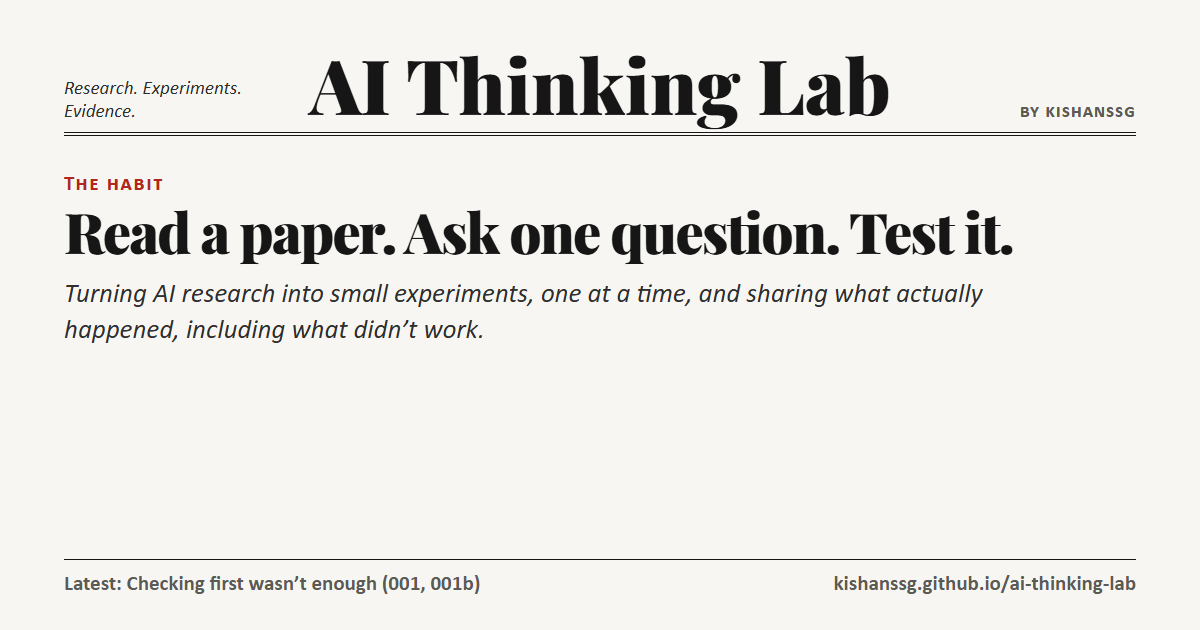
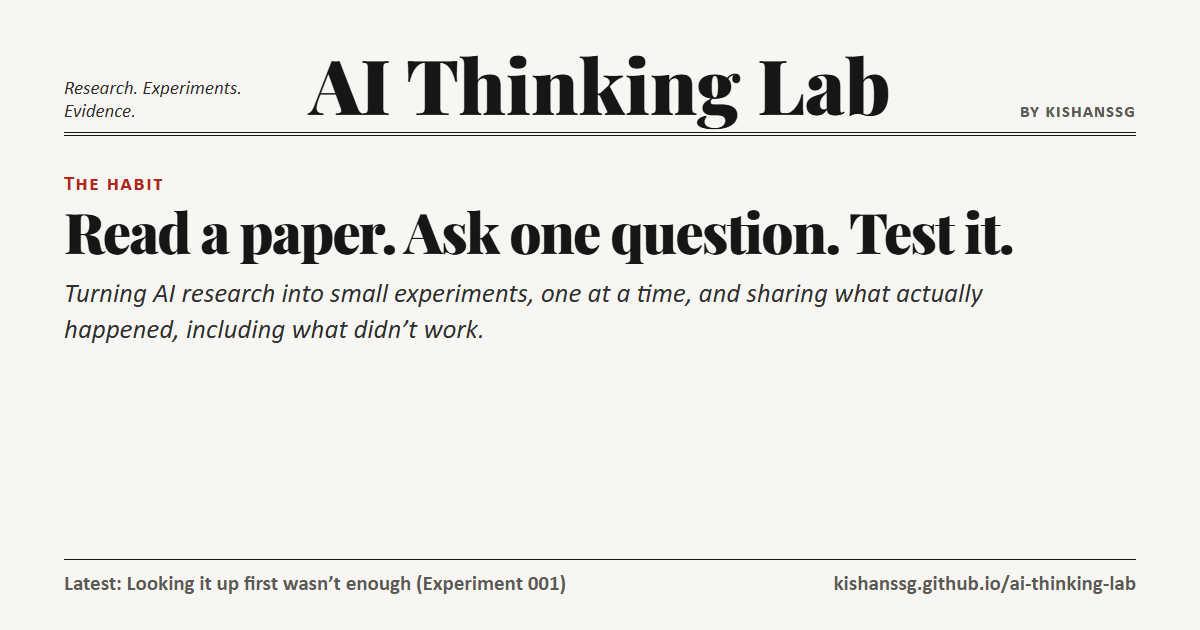
Replace vague 'check' wording with who looks up what
- 'Check first' becomes 'look up the customer's record first'; the
  lesson is now 'the final lookup and the save as one locked database
  step'. Method names: Look up first (by choice / required), Look up
  while saving.
- Comic, matrix reasons, situations, homepage log and lessons, share
  cards updated; style skill gains a no-vague-verbs rule.

Changed region(s): [[0.0925, 0.9048, 0.4933, 0.9651]]

diff --git a/docs/experiments/001-memory-reliability/index.html b/docs/experiments/001-memory-reliability/index.html
@@ -3,8 +3,8 @@
 <head>
 <meta charset="utf-8">
 <meta name="viewport" content="width=device-width, initial-scale=1">
-<title>Experiment 001: Checking first wasn&rsquo;t enough &middot; AI Thinking Lab</title>
-<meta name="description" content="A small test of the safety net around an AI support agent: a credit approval is cancelled just after the agent checks it. Checking first still let the wrong credit through; doing the check in the same locked step as giving the credit stopped it.">
+<title>Experiment 001: Looking it up first wasn&rsquo;t enough &middot; AI Thinking Lab</title>
+<meta name="description" content="A small test of the safety net around an AI support agent: a credit approval is cancelled just after the agent checks it. Looking up the customer&rsquo;s record first still let the wrong credit through; doing the final lookup and the save as one locked database step stopped it.">
 <meta name="author" content="kishanssg">
 <link rel="canonical" href="https://kishanssg.github.io/ai-thinking-lab/experiments/001-memory-reliability/">
 <link rel="icon" href="../../assets/favicon.svg" type="image/svg+xml">
@@ -14,8 +14,8 @@
 <link rel="stylesheet" href="../../assets/site.css">
 <meta property="og:type" content="article">
 <meta property="og:site_name" content="AI Thinking Lab">
-<meta property="og:title" content="Checking first still let a wrong credit through">
-<meta property="og:description" content="An approval was cancelled just after an AI support agent checked it. Checking first still let the credit through; one locked check-and-give step stopped it.">
+<meta property="og:title" content="Looking it up first still let a wrong credit through">
+<meta property="og:description" content="An approval was cancelled just after an AI support agent looked up the customer&rsquo;s record. Looking it up first still let the credit through; doing the final lookup and the save as one locked step stopped it.">
 <meta property="og:url" content="https://kishanssg.github.io/ai-thinking-lab/experiments/001-memory-reliability/">
 <meta property="og:image" content="https://kishanssg.github.io/ai-thinking-lab/assets/og-experiment-001.png">
 <meta property="og:image:width" content="1200">
@@ -46,20 +46,20 @@
 
 <div class="intro article-head">
   <p class="section-label">Experiment 001 &middot; Feature</p>
-  <h1>Checking first wasn&rsquo;t enough</h1>
-  <p class="deck">A manager cancelled a store credit just after an AI support agent checked it. The agent added the credit anyway. Checking first wasn&rsquo;t enough; the check and the action had to be one locked step.</p>
+  <h1>Looking it up first wasn&rsquo;t enough</h1>
+  <p class="deck">A manager cancelled a store credit just after an AI support agent looked up the customer&rsquo;s record. The agent saved the credit anyway. What worked: doing the final lookup and the save as one locked database step.</p>
   <p class="byline">By <a href="https://github.com/kishanssg">kishanssg</a> &middot; September 2026 &middot; 5-minute read</p>
-  <p class="for-engineers">For engineers: a time-of-check / time-of-use (TOCTOU) bug in a simulated agent tool call, fixed by doing the check and the write in one locked transaction. Python + SQLite; 24 recorded runs, plus a Part 2 stress test with 9,000 tries per method.</p>
+  <p class="for-engineers">For engineers: a time-of-check / time-of-use (TOCTOU) bug in a simulated agent tool call, fixed by doing the final lookup and the write in one locked transaction. Python + SQLite; 24 recorded runs, plus a Part 2 stress test with 9,000 tries per method.</p>
 </div>
 
 <section class="glimpse" aria-labelledby="glimpse-title">
   <h2 id="glimpse-title">At a glance</h2>
   <dl class="glimpse-list">
-    <div><dt>The problem</dt><dd>An AI support agent remembered that a customer was approved for a $20 store credit. A manager cancelled the approval just after the agent checked. The agent added the credit anyway.</dd></div>
+    <div><dt>The problem</dt><dd>An AI support agent remembered that a customer was approved for a $20 store credit. A manager cancelled the approval just after the agent looked up the customer&rsquo;s record. The agent saved the credit anyway.</dd></div>
     <div><dt>What I tried</dt><dd>Four ways to stop that, each tested in the same 6 situations.</dd></div>
-    <div><dt>What worked</dt><dd>In the one situation built to test this timing, checking first let the wrong credit through. Doing the check <em>inside</em> the step that adds the credit stopped it.</dd></div>
-    <div><dt>Part 2</dt><dd>A stress test with the cancellation landing within a few milliseconds: a separate re-check just before adding the credit still let it through in about 1 of 6 tries. A locked check-and-add step let none through.</dd></div>
-    <div><dt>The catch</dt><dd>No method gave more of the credits customers were really owed. Trust memory refused one because its memory was wrong; the three checking methods each refused one because the check broke.</dd></div>
+    <div><dt>What worked</dt><dd>In the one situation built to test this timing, looking up the record first let the wrong credit through. Looking it up again <em>inside</em> the database step that saves the credit stopped it.</dd></div>
+    <div><dt>Part 2</dt><dd>A stress test with the cancellation landing within a few milliseconds: a second lookup just before saving the credit, done as a separate step, still let it through in about 1 of 6 tries. Doing the lookup and the save as one locked database step let none through.</dd></div>
+    <div><dt>The catch</dt><dd>No method gave more of the credits customers were really owed. Trust memory refused one because its memory was wrong; the three methods that look up the record each refused one because the lookup failed.</dd></div>
     <div><dt>Keep in mind</dt><dd>I tested the safety net around an AI agent, not the AI itself. A simple rule plays the agent, and the whole test is small.</dd></div>
   </dl>
 </section>
@@ -68,8 +68,8 @@
   <h2 id="story-title">The story</h2>
   <div class="prose measure">
     <p>Imagine an AI agent that helps with customer support. Earlier today a $20 goodwill credit was approved for customer #42, and the agent remembers that.</p>
-    <p>Then the customer withdraws the complaint and a manager cancels the credit. If the agent trusts its memory, it adds a credit the customer is no longer owed. If it checks the customer&rsquo;s record first, it sees the cancellation and says no. Good.</p>
-    <p>But what if the manager cancels it in the tiny gap <em>after</em> the agent checks the record and <em>before</em> it adds the credit? The check said yes, and it was right when it looked. The credit still goes on. That gap is what this experiment is about.</p>
+    <p>Then the customer withdraws the complaint and a manager cancels the credit. If the agent trusts its memory, it adds a credit the customer is no longer owed. If it looks up the customer&rsquo;s record first, it sees the cancellation and says no. Good.</p>
+    <p>But what if the manager cancels it in the tiny gap <em>after</em> the agent looks up the record and <em>before</em> it saves the credit? The lookup said &ldquo;approved&rdquo;, and it was right at that moment. The credit still goes on. That gap is what this experiment is about.</p>
     <p>Why store credit and not a refund? Payment providers won&rsquo;t refund more than was paid, and many let you tag a request so it can&rsquo;t be processed twice. Internal tools, like adding store credit, often have no such protection. That&rsquo;s where an AI agent with a tool can slip.</p>
     <p>Why I care: AI agents are starting to remember things and then act with real tools, like issuing credits. I read <a href="https://arxiv.org/abs/2609.14976">MemRiskBench</a>, a research paper about the ways AI memory goes wrong, including using something after it was taken back. The paper doesn&rsquo;t test this timing gap. That part is my own small extension.</p>
   </div>
@@ -82,14 +82,14 @@
       <caption>Each one adds a bit more safety than the one before</caption>
       <thead><tr><th scope="col">Way</th><th scope="col">What it does</th></tr></thead>
       <tbody>
-        <tr><th scope="row"><span class="approach-tag">A</span>Trust memory</th><td data-label="What it does">Uses what it remembers. Never checks.</td></tr>
-        <tr><th scope="row"><span class="approach-tag">B</span>Check first, by choice</th><td data-label="What it does">Looks up the customer&rsquo;s record before giving the credit. Nothing forces it to.</td></tr>
-        <tr><th scope="row"><span class="approach-tag">C</span>Check first, required</th><td data-label="What it does">Same as B, but the credit tool won&rsquo;t run unless a check said yes.</td></tr>
-        <tr><th scope="row"><span class="approach-tag">D</span>Check while giving</th><td data-label="What it does">Same as C, and the credit is only added if the customer is still owed it at that exact moment.</td></tr>
+        <tr><th scope="row"><span class="approach-tag">A</span>Trust memory</th><td data-label="What it does">Uses what it remembers. Never looks anything up.</td></tr>
+        <tr><th scope="row"><span class="approach-tag">B</span>Look up first, by choice</th><td data-label="What it does">Looks up the customer&rsquo;s record before giving the credit. Nothing forces it to.</td></tr>
+        <tr><th scope="row"><span class="approach-tag">C</span>Look up first, required</th><td data-label="What it does">Same as B, but the credit tool won&rsquo;t run unless a lookup said yes.</td></tr>
+        <tr><th scope="row"><span class="approach-tag">D</span>Look up while saving</th><td data-label="What it does">Same as C, and the credit is only added if the customer is still owed it at that exact moment.</td></tr>
       </tbody>
     </table>
   </div>
-  <p class="measure muted" style="margin-top:16px">Each way was tested in the same 6 situations, such as &ldquo;nothing changed&rdquo;, &ldquo;memory is wrong&rdquo; and &ldquo;approval cancelled right after the check&rdquo;. That makes 24 tests.</p>
+  <p class="measure muted" style="margin-top:16px">Each way was tested in the same 6 situations, such as &ldquo;nothing changed&rdquo;, &ldquo;memory is wrong&rdquo; and &ldquo;approval cancelled right after the lookup&rdquo;. That makes 24 tests.</p>
 </section>
 
 <section id="results" aria-labelledby="results-title">
@@ -116,21 +116,21 @@
           <td data-label="Fair credits refused (of 3)"><span class="metric" data-approach="A" data-metric="unnecessary_refusals" data-value="1/3"><span class="segs miss" aria-hidden="true"><i class="on"></i><i></i><i></i></span><span class="value">1/3</span></span></td>
         </tr>
         <tr>
-          <th scope="row"><span class="approach-tag">B</span>Check first, by choice</th>
+          <th scope="row"><span class="approach-tag">B</span>Look up first, by choice</th>
           <td data-label="Wrong credits (of 6)"><span class="metric" data-approach="B" data-metric="invalid_commits" data-value="1/6"><span class="segs bad" aria-hidden="true"><i class="on"></i><i></i><i></i><i></i><i></i><i></i></span><span class="value">1/6</span></span></td>
           <td data-label="Wrong “yes” decisions (of 6)"><span class="metric" data-approach="B" data-metric="incorrect_affirmative_recommendations" data-value="0/6"><span class="segs bad" aria-hidden="true"><i></i><i></i><i></i><i></i><i></i><i></i></span><span class="value">0/6</span></span></td>
           <td data-label="Fair credits given (of 3)"><span class="metric" data-approach="B" data-metric="valid_task_completion" data-value="2/3"><span class="segs good" aria-hidden="true"><i class="on"></i><i class="on"></i><i></i></span><span class="value">2/3</span></span></td>
           <td data-label="Fair credits refused (of 3)"><span class="metric" data-approach="B" data-metric="unnecessary_refusals" data-value="1/3"><span class="segs miss" aria-hidden="true"><i class="on"></i><i></i><i></i></span><span class="value">1/3</span></span></td>
         </tr>
         <tr>
-          <th scope="row"><span class="approach-tag">C</span>Check first, required</th>
+          <th scope="row"><span class="approach-tag">C</span>Look up first, required</th>
           <td data-label="Wrong credits (of 6)"><span class="metric" data-approach="C" data-metric="invalid_commits" data-value="1/6"><span class="segs bad" aria-hidden="true"><i class="on"></i><i></i><i></i><i></i><i></i><i></i></span><span class="value">1/6</span></span></td>
           <td data-label="Wrong “yes” decisions (of 6)"><span class="metric" data-approach="C" data-metric="incorrect_affirmative_recommendations" data-value="0/6"><span class="segs bad" aria-hidden="true"><i></i><i></i><i></i><i></i><i></i><i></i></span><span class="value">0/6</span></span></td>
           <td data-label="Fair credits given (of 3)"><span class="metric" data-approach="C" data-metric="valid_task_completion" data-value="2/3"><span class="segs good" aria-hidden="true"><i class="on"></i><i class="on"></i><i></i></span><span class="value">2/3</span></span></td>
           <td data-label="Fair credits refused (of 3)"><span class="metric" data-approach="C" data-metric="unnecessary_refusals" data-value="1/3"><span class="segs miss" aria-hidden="true"><i class="on"></i><i></i><i></i></span><span class="value">1/3</span></span></td>
         </tr>
         <tr>
-          <th scope="row"><span class="approach-tag">D</span>Check while giving</th>
+          <th scope="row"><span class="approach-tag">D</span>Look up while saving</th>
           <td data-label="Wrong credits (of 6)"><span class="metric" data-approach="D" data-metric="invalid_commits" data-value="0/6"><span class="segs bad" aria-hidden="true"><i></i><i></i><i></i><i></i><i></i><i></i></span><span class="value">0/6</span></span></td>
           <td data-label="Wrong “yes” decisions (of 6)"><span class="metric" data-approach="D" data-metric="incorrect_affirmative_recommendations" data-value="0/6"><span class="segs bad" aria-hidden="true"><i></i><i></i><i></i><i></i><i></i><i></i></span><span class="value">0/6</span></span></td>
           <td data-label="Fair credits given (of 3)"><span class="metric" data-approach="D" data-metric="valid_task_completion" data-value="2/3"><span class="segs good" aria-hidden="true"><i class="on"></i><i class="on"></i><i></i></span><span class="value">2/3</span></span></td>
@@ -139,7 +139,7 @@
       </tbody>
     </table>
   </div>
-  <p class="figure-note">B and C give the same results. That&rsquo;s expected: B always chooses to check, so C&rsquo;s extra rule never gets a chance to matter here.</p>
+  <p class="figure-note">B and C give the same results. That&rsquo;s expected: B always chooses to look up the record, so C&rsquo;s extra rule never gets a chance to matter here.</p>
 
   <div class="figure">
     <h3 id="matrix-title">All 24 tests</h3>
@@ -156,53 +156,53 @@
           <tr>
             <th scope="col">Situation</th>
             <th scope="col"><span class="approach-tag">A</span>Trust memory</th>
-            <th scope="col"><span class="approach-tag">B</span>Check, by choice</th>
-            <th scope="col"><span class="approach-tag">C</span>Check, required</th>
-            <th scope="col"><span class="approach-tag">D</span>Check while giving</th>
+            <th scope="col"><span class="approach-tag">B</span>Look up, by choice</th>
+            <th scope="col"><span class="approach-tag">C</span>Look up, required</th>
+            <th scope="col"><span class="approach-tag">D</span>Look up while saving</th>
           </tr>
         </thead>
         <tbody>
           <tr>
             <th scope="row">1. Nothing changed<small>Memory: approved. Truth: approved.</small></th>
             <td data-label="A &middot; Trust memory"><span class="cell o-write" data-scenario="approved_unchanged" data-approach="A" data-recommended="true" data-committed="true"><b>Given</b><span>memory said yes</span></span></td>
-            <td data-label="B &middot; Check, by choice"><span class="cell o-write" data-scenario="approved_unchanged" data-approach="B" data-recommended="true" data-committed="true"><b>Given</b><span>check said yes</span></span></td>
-            <td data-label="C &middot; Check, required"><span class="cell o-write" data-scenario="approved_unchanged" data-approach="C" data-recommended="true" data-committed="true"><b>Given</b><span>check said yes</span></span></td>
-            <td data-label="D &middot; Check while giving"><span class="cell o-write" data-scenario="approved_unchanged" data-approach="D" data-recommended="true" data-committed="true"><b>Given</b><span>both checks said yes</span></span></td>
+            <td data-label="B &middot; Look up, by choice"><span class="cell o-write" data-scenario="approved_unchanged" data-approach="B" data-recommended="true" data-committed="true"><b>Given</b><span>lookup said yes</span></span></td>
+            <td data-label="C &middot; Look up, required"><span class="cell o-write" data-scenario="approved_unchanged" data-approach="C" data-recommended="true" data-committed="true"><b>Given</b><span>lookup said yes</span></span></td>
+            <td data-label="D &middot; Look up while saving"><span class="cell o-write" data-scenario="approved_unchanged" data-approach="D" data-recommended="true" data-committed="true"><b>Given</b><span>both lookups said yes</span></span></td>
           </tr>
           <tr>
             <th scope="row">2. Memory wrongly says yes<small>Memory: approved. Truth: approval cancelled.</small></th>
             <td data-label="A &middot; Trust memory"><span class="cell o-invalid" data-scenario="stale_true" data-approach="A" data-recommended="true" data-committed="true"><b>Wrong credit</b><span>memory said yes</span></span></td>
-            <td data-label="B &middot; Check, by choice"><span class="cell o-refuse" data-scenario="stale_true" data-approach="B" data-recommended="false" data-committed="false"><b>Said no</b><span>check said no</span></span></td>
-            <td data-label="C &middot; Check, required"><span class="cell o-refuse" data-scenario="stale_true" data-approach="C" data-recommended="false" data-committed="false"><b>Said no</b><span>check said no</span></span></td>
-            <td data-label="D &middot; Check while giving"><span class="cell o-refuse" data-scenario="stale_true" data-approach="D" data-recommended="false" data-committed="false"><b>Said no</b><span>check said no</span></span></td>
+            <td data-label="B &middot; Look up, by choice"><span class="cell o-refuse" data-scenario="stale_true" data-approach="B" data-recommended="false" data-committed="false"><b>Said no</b><span>lookup said no</span></span></td>
+            <td data-label="C &middot; Look up, required"><span class="cell o-refuse" data-scenario="stale_true" data-approach="C" data-recommended="false" data-committed="false"><b>Said no</b><span>lookup said no</span></span></td>
+            <td data-label="D &middot; Look up while saving"><span class="cell o-refuse" data-scenario="stale_true" data-approach="D" data-recommended="false" data-committed="false"><b>Said no</b><span>lookup said no</span></span></td>
           </tr>
           <tr>
             <th scope="row">3. Memory wrongly says no<small>Memory: not approved. Truth: approved.</small></th>
             <td data-label="A &middot; Trust memory"><span class="cell o-missed" data-scenario="stale_false" data-approach="A" data-recommended="false" data-committed="false"><b>Refused</b><span>memory said no</span></span></td>
-            <td data-label="B &middot; Check, by choice"><span class="cell o-write" data-scenario="stale_false" data-approach="B" data-recommended="true" data-committed="true"><b>Given</b><span>check said yes</span></span></td>
-            <td data-label="C &middot; Check, required"><span class="cell o-write" data-scenario="stale_false" data-approach="C" data-recommended="true" data-committed="true"><b>Given</b><span>check said yes</span></span></td>
-            <td data-label="D &middot; Check while giving"><span class="cell o-write" data-scenario="stale_false" data-approach="D" data-recommended="true" data-committed="true"><b>Given</b><span>both checks said yes</span></span></td>
+            <td data-label="B &middot; Look up, by choice"><span class="cell o-write" data-scenario="stale_false" data-approach="B" data-recommended="true" data-committed="true"><b>Given</b><span>lookup said yes</span></span></td>
+            <td data-label="C &middot; Look up, required"><span class="cell o-write" data-scenario="stale_false" data-approach="C" data-recommended="true" data-committed="true"><b>Given</b><span>lookup said yes</span></span></td>
+            <td data-label="D &middot; Look up while saving"><span class="cell o-write" data-scenario="stale_false" data-approach="D" data-recommended="true" data-committed="true"><b>Given</b><span>both lookups said yes</span></span></td>
           </tr>
           <tr>
             <th scope="row">4. The account was closed<small>Memory: approved. Truth: account closed.</small></th>
             <td data-label="A &middot; Trust memory"><span class="cell o-invalid" data-scenario="account_closed" data-approach="A" data-recommended="true" data-committed="true"><b>Wrong credit</b><span>memory said yes</span></span></td>
-            <td data-label="B &middot; Check, by choice"><span class="cell o-refuse" data-scenario="account_closed" data-approach="B" data-recommended="false" data-committed="false"><b>Said no</b><span>check found nothing</span></span></td>
-            <td data-label="C &middot; Check, required"><span class="cell o-refuse" data-scenario="account_closed" data-approach="C" data-recommended="false" data-committed="false"><b>Said no</b><span>check found nothing</span></span></td>
-            <td data-label="D &middot; Check while giving"><span class="cell o-refuse" data-scenario="account_closed" data-approach="D" data-recommended="false" data-committed="false"><b>Said no</b><span>check found nothing</span></span></td>
+            <td data-label="B &middot; Look up, by choice"><span class="cell o-refuse" data-scenario="account_closed" data-approach="B" data-recommended="false" data-committed="false"><b>Said no</b><span>lookup found no account</span></span></td>
+            <td data-label="C &middot; Look up, required"><span class="cell o-refuse" data-scenario="account_closed" data-approach="C" data-recommended="false" data-committed="false"><b>Said no</b><span>lookup found no account</span></span></td>
+            <td data-label="D &middot; Look up while saving"><span class="cell o-refuse" data-scenario="account_closed" data-approach="D" data-recommended="false" data-committed="false"><b>Said no</b><span>lookup found no account</span></span></td>
           </tr>
           <tr>
-            <th scope="row">5. The check breaks<small>Memory: approved. Truth: approved. The lookup fails.</small></th>
+            <th scope="row">5. The lookup fails<small>Memory: approved. Truth: approved. The lookup fails.</small></th>
             <td data-label="A &middot; Trust memory"><span class="cell o-write" data-scenario="lookup_fails" data-approach="A" data-recommended="true" data-committed="true"><b>Given</b><span>memory said yes</span></span></td>
-            <td data-label="B &middot; Check, by choice"><span class="cell o-missed" data-scenario="lookup_fails" data-approach="B" data-recommended="false" data-committed="false"><b>Refused</b><span>check failed, so no</span></span></td>
-            <td data-label="C &middot; Check, required"><span class="cell o-missed" data-scenario="lookup_fails" data-approach="C" data-recommended="false" data-committed="false"><b>Refused</b><span>check failed, so no</span></span></td>
-            <td data-label="D &middot; Check while giving"><span class="cell o-missed" data-scenario="lookup_fails" data-approach="D" data-recommended="false" data-committed="false"><b>Refused</b><span>check failed, so no</span></span></td>
+            <td data-label="B &middot; Look up, by choice"><span class="cell o-missed" data-scenario="lookup_fails" data-approach="B" data-recommended="false" data-committed="false"><b>Refused</b><span>lookup failed, so no</span></span></td>
+            <td data-label="C &middot; Look up, required"><span class="cell o-missed" data-scenario="lookup_fails" data-approach="C" data-recommended="false" data-committed="false"><b>Refused</b><span>lookup failed, so no</span></span></td>
+            <td data-label="D &middot; Look up while saving"><span class="cell o-missed" data-scenario="lookup_fails" data-approach="D" data-recommended="false" data-committed="false"><b>Refused</b><span>lookup failed, so no</span></span></td>
           </tr>
           <tr>
-            <th scope="row">6. Approval cancelled right after the check<small>Memory: approved. Truth: approved, then cancelled.</small></th>
+            <th scope="row">6. Approval cancelled right after the lookup<small>Memory: approved. Truth: approved, then cancelled.</small></th>
             <td data-label="A &middot; Trust memory"><span class="cell o-invalid" data-scenario="approval_cancelled" data-approach="A" data-recommended="true" data-committed="true"><b>Wrong credit</b><span>memory said yes</span></span></td>
-            <td data-label="B &middot; Check, by choice"><span class="cell o-invalid" data-scenario="approval_cancelled" data-approach="B" data-recommended="true" data-committed="true"><b>Wrong credit</b><span>check was out of date</span></span></td>
-            <td data-label="C &middot; Check, required"><span class="cell o-invalid" data-scenario="approval_cancelled" data-approach="C" data-recommended="true" data-committed="true"><b>Wrong credit</b><span>check was out of date</span></span></td>
-            <td data-label="D &middot; Check while giving"><span class="cell o-blocked" data-scenario="approval_cancelled" data-approach="D" data-recommended="true" data-committed="false"><b>Stopped</b><span>second check said no</span></span></td>
+            <td data-label="B &middot; Look up, by choice"><span class="cell o-invalid" data-scenario="approval_cancelled" data-approach="B" data-recommended="true" data-committed="true"><b>Wrong credit</b><span>lookup was out of date</span></span></td>
+            <td data-label="C &middot; Look up, required"><span class="cell o-invalid" data-scenario="approval_cancelled" data-approach="C" data-recommended="true" data-committed="true"><b>Wrong credit</b><span>lookup was out of date</span></span></td>
+            <td data-label="D &middot; Look up while saving"><span class="cell o-blocked" data-scenario="approval_cancelled" data-approach="D" data-recommended="true" data-committed="false"><b>Stopped</b><span>second lookup said no</span></span></td>
           </tr>
         </tbody>
       </table>
@@ -211,12 +211,12 @@
   </div>
 
   <div class="callout">
-    <p><strong>Row 6 is the one that matters.</strong> It&rsquo;s the only place where &ldquo;check while giving&rdquo; did better than &ldquo;check first&rdquo;.</p>
+    <p><strong>Row 6 is the one that matters.</strong> It&rsquo;s the only place where &ldquo;look up while saving&rdquo; did better than &ldquo;look up first&rdquo;.</p>
   </div>
 </section>
 
 <section id="failure" aria-labelledby="failure-title">
-  <h2 id="failure-title">Why checking first wasn&rsquo;t enough</h2>
+  <h2 id="failure-title">Why looking it up first wasn&rsquo;t enough</h2>
   <p class="measure muted">Situation 6, as a comic strip.</p>
 
   <figure class="comic" aria-labelledby="comic-title">
@@ -228,8 +228,8 @@
         <svg viewBox="0 0 220 150" class="scene" role="img" aria-label="The support agent holds a memory note that says customer 42 is approved for a credit."><g transform="translate(30 60) scale(1.0)"><line x1="30" y1="3" x2="30" y2="12" class="ink"/><circle cx="30" cy="4" r="3.5" class="ink fill-accent"/><rect x="8" y="12" width="44" height="30" rx="8" class="ink fill-panel"/><circle cx="22" cy="26" r="4" class="fill-ink"/><circle cx="38" cy="26" r="4" class="fill-ink"/><path d="M22 35 Q30 40 38 35" class="ink"/><rect x="14" y="45" width="32" height="30" rx="5" class="ink fill-panel"/><circle cx="30" cy="59" r="5" class="ink fill-accent"/></g><g transform="translate(120 80)"><rect x="0" y="0" width="70" height="46" rx="3" class="ink fill-note"/><text x="35" y="14" class="svg-label" text-anchor="middle">MEMORY</text><path d="M22 26 L31 35 L48 18" class="ink ok-stroke" style="stroke-width:4"/></g></svg>
       </div>
       <div class="panel">
-        <p class="caption-box"><span class="sr-only">Panel 2, </span>Step 1 &middot; The check</p>
-        <p class="bubble"><span class="sr-only">The agent says: </span>Let me check&hellip; Yes, still approved.</p>
+        <p class="caption-box"><span class="sr-only">Panel 2, </span>Step 1 &middot; The lookup</p>
+        <p class="bubble"><span class="sr-only">The agent says: </span>Let me look up #42&hellip; Yes, still approved.</p>
         <svg viewBox="0 0 220 150" class="scene" role="img" aria-label="The agent looks up customer 42 through a magnifying glass. It shows a green tick."><g transform="translate(25 60) scale(1.0)"><line x1="30" y1="3" x2="30" y2="12" class="ink"/><circle cx="30" cy="4" r="3.5" class="ink fill-accent"/><rect x="8" y="12" width="44" height="30" rx="8" class="ink fill-panel"/><circle cx="22" cy="26" r="4" class="fill-ink"/><circle cx="38" cy="26" r="4" class="fill-ink"/><path d="M22 35 Q30 40 38 35" class="ink"/><rect x="14" y="45" width="32" height="30" rx="5" class="ink fill-panel"/><circle cx="30" cy="59" r="5" class="ink fill-accent"/></g><circle cx="118" cy="98" r="14" class="ink fill-none"/><line x1="108" y1="108" x2="96" y2="121" class="ink" style="stroke-width:5"/><g transform="translate(145 72)"><rect x="2" y="6" width="40" height="50" rx="3" class="ink fill-white"/><rect x="14" y="2" width="16" height="8" rx="2" class="fill-ink"/><text x="22" y="19" class="svg-label" text-anchor="middle" style="font-size:9px">#42</text><path d="M12 36 L20 44 L33 27" class="ink ok-stroke" style="stroke-width:5"/></g></svg>
       </div>
       <div class="panel">
@@ -239,7 +239,7 @@
       </div>
       <div class="panel">
         <p class="caption-box"><span class="sr-only">Panel 4, </span>Step 3</p>
-        <p class="bubble"><span class="sr-only">The agent says: </span>I already checked. Adding the credit!</p>
+        <p class="bubble"><span class="sr-only">The agent says: </span>I already looked it up. Saving the credit!</p>
         <svg viewBox="0 0 220 150" class="scene" role="img" aria-label="The agent holds up its old note that still says yes."><g transform="translate(30 60) scale(1.0)"><line x1="30" y1="3" x2="30" y2="12" class="ink"/><circle cx="30" cy="4" r="3.5" class="ink fill-accent"/><rect x="8" y="12" width="44" height="30" rx="8" class="ink fill-panel"/><circle cx="22" cy="26" r="4" class="fill-ink"/><circle cx="38" cy="26" r="4" class="fill-ink"/><path d="M22 35 Q30 40 38 35" class="ink"/><rect x="14" y="45" width="32" height="30" rx="5" class="ink fill-panel"/><circle cx="30" cy="59" r="5" class="ink fill-accent"/></g><g transform="translate(120 80)"><rect x="0" y="0" width="70" height="46" rx="3" class="ink fill-note"/><text x="35" y="14" class="svg-label" text-anchor="middle">OLD ANSWER</text><path d="M22 26 L31 35 L48 18" class="ink ok-stroke" style="stroke-width:4"/></g></svg>
       </div>
       <div class="panel panel-split">
@@ -247,15 +247,15 @@
         <div class="split">
           <div class="half o-invalid">
             <p class="half-label">Methods A, B and C</p>
-            <p class="bubble"><span class="sr-only">The agent says: </span>Credit added!</p>
-            <svg viewBox="0 0 220 150" class="scene" role="img" aria-label="The agent adds a $20 store credit. A red stamp says not owed."><g transform="translate(15 60) scale(0.9)"><line x1="30" y1="3" x2="30" y2="12" class="ink"/><circle cx="30" cy="4" r="3.5" class="ink fill-accent"/><rect x="8" y="12" width="44" height="30" rx="8" class="ink fill-panel"/><circle cx="22" cy="26" r="4" class="fill-ink"/><circle cx="38" cy="26" r="4" class="fill-ink"/><path d="M22 35 Q30 40 38 35" class="ink"/><rect x="14" y="45" width="32" height="30" rx="5" class="ink fill-panel"/><circle cx="30" cy="59" r="5" class="ink fill-accent"/></g><g transform="translate(78 100)"><rect x="0" y="0" width="62" height="38" rx="5" class="ink fill-cash"/><text x="31" y="17" class="svg-label" text-anchor="middle">STORE CREDIT</text><text x="31" y="32" class="svg-cash" text-anchor="middle">$20</text></g><g transform="translate(140 64) rotate(-10)"><rect x="-66.0" y="-16" width="132" height="32" rx="3" class="stamp-no"/><text x="0" y="6" text-anchor="middle" class="stamp-text stamp-text-no">NOT OWED</text></g></svg>
+            <p class="bubble"><span class="sr-only">The agent says: </span>Credit saved!</p>
+            <svg viewBox="0 0 220 150" class="scene" role="img" aria-label="The agent saves a $20 store credit. A red stamp says not owed."><g transform="translate(15 60) scale(0.9)"><line x1="30" y1="3" x2="30" y2="12" class="ink"/><circle cx="30" cy="4" r="3.5" class="ink fill-accent"/><rect x="8" y="12" width="44" height="30" rx="8" class="ink fill-panel"/><circle cx="22" cy="26" r="4" class="fill-ink"/><circle cx="38" cy="26" r="4" class="fill-ink"/><path d="M22 35 Q30 40 38 35" class="ink"/><rect x="14" y="45" width="32" height="30" rx="5" class="ink fill-panel"/><circle cx="30" cy="59" r="5" class="ink fill-accent"/></g><g transform="translate(78 100)"><rect x="0" y="0" width="62" height="38" rx="5" class="ink fill-cash"/><text x="31" y="17" class="svg-label" text-anchor="middle">STORE CREDIT</text><text x="31" y="32" class="svg-cash" text-anchor="middle">$20</text></g><g transform="translate(140 64) rotate(-10)"><rect x="-66.0" y="-16" width="132" height="32" rx="3" class="stamp-no"/><text x="0" y="6" text-anchor="middle" class="stamp-text stamp-text-no">NOT OWED</text></g></svg>
             <p class="verdict"><span aria-hidden="true">&#10005;</span> The customer gets $20 they&rsquo;re no longer owed</p>
           </div>
           <div class="half o-blocked">
             <p class="half-label">Method D</p>
-            <p class="bubble"><span class="sr-only">The agent says: </span>Checking again as I add it&hellip; Cancelled. Nothing added.</p>
+            <p class="bubble"><span class="sr-only">The agent says: </span>Looking it up again as I save it&hellip; Cancelled. Nothing saved.</p>
             <svg viewBox="0 0 220 150" class="scene" role="img" aria-label="The agent checks customer 42 again while adding the credit and sees the red cross."><g transform="translate(20 60) scale(0.9)"><line x1="30" y1="3" x2="30" y2="12" class="ink"/><circle cx="30" cy="4" r="3.5" class="ink fill-accent"/><rect x="8" y="12" width="44" height="30" rx="8" class="ink fill-panel"/><circle cx="22" cy="26" r="4" class="fill-ink"/><circle cx="38" cy="26" r="4" class="fill-ink"/><path d="M22 37 L38 37" class="ink"/><rect x="14" y="45" width="32" height="30" rx="5" class="ink fill-panel"/><circle cx="30" cy="59" r="5" class="ink fill-accent"/></g><g transform="translate(140 72)"><rect x="2" y="6" width="40" height="50" rx="3" class="ink fill-white"/><rect x="14" y="2" width="16" height="8" rx="2" class="fill-ink"/><text x="22" y="19" class="svg-label" text-anchor="middle" style="font-size:9px">#42</text><path d="M13 27 L31 45 M31 27 L13 45" class="ink no-stroke" style="stroke-width:5"/></g></svg>
-            <p class="verdict"><span aria-hidden="true">&#10003;</span> No credit added</p>
+            <p class="verdict"><span aria-hidden="true">&#10003;</span> No credit saved</p>
           </div>
         </div>
       </div>
@@ -272,7 +272,7 @@ INSERT INTO credits (credit_id, customer)
 SELECT 'credit-42', id FROM customers
 WHERE id = 'customer-42' AND approved = 1;
 COMMIT;</code></pre>
-      <p>The caveat: the change in step 2 is applied before D&rsquo;s transaction starts, on one in-memory connection. So <code>BEGIN IMMEDIATE</code> never has another writer to block, and a plain re-read right before an unguarded insert would also have scored 0/6. This test shows that checking at write time catches the change. It does not test the guard under real concurrency; <a href="#part-2">Part 2</a> does. <code>BEGIN IMMEDIATE</code> is there to make the &ldquo;already done?&rdquo; check and the insert one unit against other writers.</p>
+      <p>The caveat: the change in step 2 is applied before D&rsquo;s transaction starts, on one in-memory connection. So <code>BEGIN IMMEDIATE</code> never has another writer to block, and a plain re-read right before an unguarded insert would also have scored 0/6. This test shows that looking up the record at write time catches the change. It does not test the guard under real concurrency; <a href="#part-2">Part 2</a> does. <code>BEGIN IMMEDIATE</code> is there to make the &ldquo;already credited?&rdquo; lookup and the insert one unit against other writers.</p>
     </div>
   </details>
   <details class="eng">
@@ -304,22 +304,22 @@ COMMIT;</code></pre>
 <section id="part-2" aria-labelledby="part2-title">
   <h2 id="part2-title">Part 2: a real stress test</h2>
   <div class="prose measure">
-    <p>The test above couldn&rsquo;t tell whether the special guarded step mattered, or whether any late re-check would do. So I ran a tougher version as Part 2 of this experiment. This time the manager&rsquo;s cancellation really raced the agent, landing within a few milliseconds of it, 3,000 times per method, three runs.</p>
+    <p>The test above couldn&rsquo;t tell whether the special guarded step mattered, or whether any late second lookup would do. So I ran a tougher version as Part 2 of this experiment. This time the manager&rsquo;s cancellation really raced the agent, landing within a few milliseconds of it, 3,000 times per method, three runs.</p>
   </div>
   <div class="table-scroll">
     <table class="compare simple part2-table">
       <caption>Wrong credits when the cancellation really races the agent</caption>
       <thead><tr><th scope="col">Method</th><th scope="col">Wrong credits</th><th scope="col">What it does</th></tr></thead>
       <tbody>
-        <tr><th scope="row">Check first, required</th><td><span class="metric" data-exp="part2" data-approach="C" data-value="2617/9000"><span class="value">2,617 of 9,000</span> (29%)</span></td><td class="note">The same as method C above.</td></tr>
-        <tr><th scope="row">Re-check just before giving</th><td><span class="metric" data-exp="part2" data-approach="E" data-value="1611/9000"><span class="value">1,611 of 9,000</span> (18%)</span></td><td class="note">Looks again right before giving the credit, as a separate step.</td></tr>
-        <tr><th scope="row">Check and give as one locked step</th><td><span class="metric" data-exp="part2" data-approach="F" data-value="0/9000"><span class="value">0 of 9,000</span></span></td><td class="note">Re-check and add the credit inside one write transaction that locks out other changes.</td></tr>
-        <tr><th scope="row">Check while giving (method D)</th><td><span class="metric" data-exp="part2" data-approach="D" data-value="0/9000"><span class="value">0 of 9,000</span></span></td><td class="note">The guarded step from above, inside a transaction.</td></tr>
+        <tr><th scope="row">Look up first, required</th><td><span class="metric" data-exp="part2" data-approach="C" data-value="2617/9000"><span class="value">2,617 of 9,000</span> (29%)</span></td><td class="note">The same as method C above.</td></tr>
+        <tr><th scope="row">Look up again just before saving</th><td><span class="metric" data-exp="part2" data-approach="E" data-value="1611/9000"><span class="value">1,611 of 9,000</span> (18%)</span></td><td class="note">Looks up the record again right before saving the credit, as a separate step.</td></tr>
+        <tr><th scope="row">Look up and save as one locked step</th><td><span class="metric" data-exp="part2" data-approach="F" data-value="0/9000"><span class="value">0 of 9,000</span></span></td><td class="note">Looks up the record and saves the credit inside one write transaction that locks out other changes.</td></tr>
+        <tr><th scope="row">Look up while saving (method D)</th><td><span class="metric" data-exp="part2" data-approach="D" data-value="0/9000"><span class="value">0 of 9,000</span></span></td><td class="note">The guarded step from above, inside a transaction.</td></tr>
       </tbody>
     </table>
   </div>
   <div class="prose measure">
-    <p><strong>A quick re-check isn&rsquo;t enough.</strong> What works is making the check and the action one locked step, so nothing can change in between. In SQLite, a write transaction does that because it locks out other writers. Postgres would need an explicit row lock. The special guarded step wasn&rsquo;t the important part.</p>
+    <p><strong>A quick second lookup isn&rsquo;t enough.</strong> What works is making the final lookup and the save one locked step, so nothing can change in between. In SQLite, a write transaction does that because it locks out other writers. Postgres would need an explicit row lock. The special guarded step wasn&rsquo;t the important part.</p>
   </div>
   <p class="measure small muted">These rates come from one laptop and change from run to run. Zero is what the database&rsquo;s locking should guarantee, but it&rsquo;s still an observation, not a proof. Only SQLite was tested. <a href="https://github.com/kishanssg/ai-thinking-lab/blob/main/experiments/001-memory-reliability/part-2-stress-test/README.md">Code, method and full results</a>.</p>
 </section>
@@ -327,9 +327,9 @@ COMMIT;</code></pre>
 <section id="learned" aria-labelledby="learned-title">
   <h2 id="learned-title">What I learned</h2>
   <div class="prose measure">
-    <p>A check can be right and still be too early. Even a re-check right before acting wasn&rsquo;t enough once things really happened at the same time. The check and the action need to be one locked step.</p>
+    <p>A lookup can be right and still be too early: the record can change before the agent acts on it. Even a second lookup right before saving wasn&rsquo;t enough once things really happened at the same time. The final lookup and the save need to be one locked step.</p>
     <p>Safety and usefulness are different things. Method D stopped the wrong credit, but it didn&rsquo;t give any more of the credits customers were really owed. If I had only measured one number, I would have missed that.</p>
-    <p>Saying &ldquo;no&rdquo; when unsure has a cost. When the check broke (situation 5), methods B, C and D all said no, so a customer who was owed a credit didn&rsquo;t get it. For money that&rsquo;s probably the right call, but it&rsquo;s still a cost.</p>
+    <p>Saying &ldquo;no&rdquo; when unsure has a cost. When the lookup failed (situation 5), methods B, C and D all said no, so a customer who was owed a credit didn&rsquo;t get it. For money that&rsquo;s probably the right call, but it&rsquo;s still a cost.</p>
   </div>
 </section>
 
@@ -339,7 +339,7 @@ COMMIT;</code></pre>
     <ul>
       <li>Would this hold on other databases? On Postgres, the same trick can still fail unless you add a lock. I haven&rsquo;t tested that.</li>
       <li>What if the record changes after the credit is added? Method D doesn&rsquo;t handle that.</li>
-      <li>What should the agent do when it hears &ldquo;cancelled&rdquo;? Tell the customer, check again later, or ask a person?</li>
+      <li>What should the agent do when it hears &ldquo;cancelled&rdquo;? Tell the customer, look up the record again later, or ask a person?</li>
       <li>What would a real AI model do in the agent&rsquo;s place? That&rsquo;s a good next experiment.</li>
     </ul>
   </div>

diff --git a/docs/index.html b/docs/index.html
@@ -69,8 +69,8 @@
       <tbody>
         <tr>
           <td class="num">001</td>
-          <td><a href="experiments/001-memory-reliability/"><strong>Checking first wasn&rsquo;t enough</strong></a><br><span class="small muted">From the MemRiskBench paper &middot; Sep 2026</span></td>
-          <td class="q">A manager cancelled a store credit just after an AI support agent checked it, and the agent added it anyway. Even a quick re-check just before acting let some through under real timing; only a check and action done as one locked step stopped them all.</td>
+          <td><a href="experiments/001-memory-reliability/"><strong>Looking it up first wasn&rsquo;t enough</strong></a><br><span class="small muted">From the MemRiskBench paper &middot; Sep 2026</span></td>
+          <td class="q">A manager cancelled a store credit just after an AI support agent looked up the customer&rsquo;s record, and the agent saved it anyway. Even a second lookup right before saving let some through under real timing; only doing the final lookup and the save as one locked database step stopped them all.</td>
           <td class="small"><a href="experiments/001-memory-reliability/">Read</a><br><a href="https://github.com/kishanssg/ai-thinking-lab/tree/main/experiments/001-memory-reliability">Code</a></td>
         </tr>
       </tbody>
@@ -83,7 +83,7 @@
   <h2 id="lessons-title" class="section-head">Lessons so far</h2>
   <div class="prose measure">
     <ul>
-      <li>A check can go out of date before you act on it. The check and the action need to happen as one locked step. <span class="muted">(001)</span></li>
+      <li>When an AI agent looks something up, the answer can change before it acts. The final lookup and the action need to happen as one locked database step, so nothing can change in between. <span class="muted">(001)</span></li>
       <li>Measure safety and usefulness separately. The safest method gave no more fair credits than the least safe one. <span class="muted">(001)</span></li>
     </ul>
   </div>

diff --git a/.claude/skills/ai-thinking-lab-style/SKILL.md b/.claude/skills/ai-thinking-lab-style/SKILL.md
@@ -22,7 +22,8 @@ AI Thinking Lab is a habit: **read a paper, ask one question, test it, share wha
 - Use everyday words in the main text ("wrong credit", "check while giving"); put technical terms once near the top for engineers ("TOCTOU", "write transaction") and in "For engineers" sections that open on click.
 - Say what didn't work, as plainly as what did.
 - State the condition behind every number ("within a few milliseconds, on one laptop, SQLite").
-- Give every number its denominator ("1 of 6", "1,472 of 9,000").
+- Give every number its denominator ("1 of 6", "1,611 of 9,000").
+- Never use a vague action word on its own. Say who does what to which thing: not "check first" but "the agent looks up the customer's record first"; not "the check and the action" but "the final lookup and the save". Experiment 001's words: **look up** (read the record to see if the credit is still approved), **save** (write the credit to the database), **one locked database step** (nothing can change the record between the lookup and the save). "Check" is fine only for checking results or the automatic site check.
 - Keep the AI-assistance credit to one line: "Built with help from AI tools (ChatGPT, OpenAI Codex, Claude Code). I choose the questions and check the results."
 - Say once, plainly, what kind of test it is: "I tested the safety net around an AI agent, not the AI itself. A simple rule plays the agent."
 
